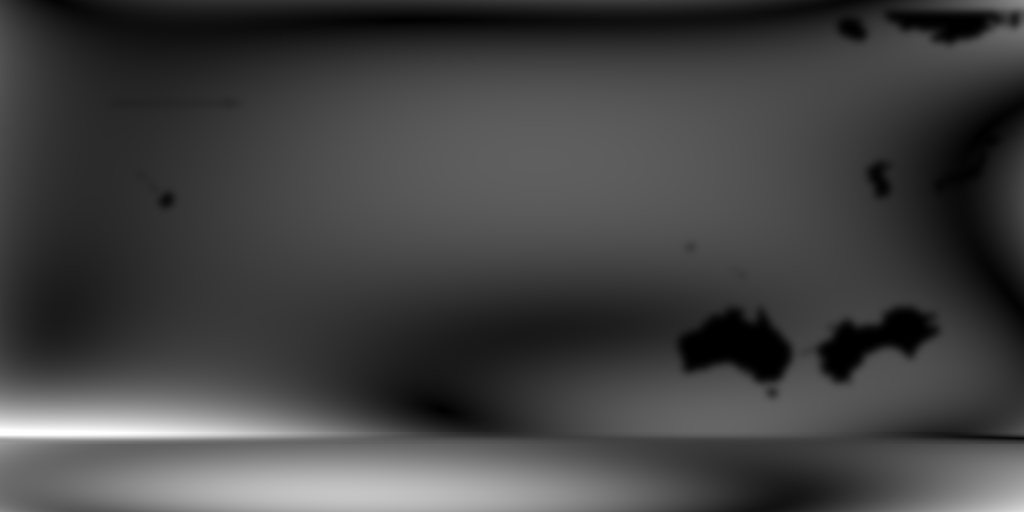
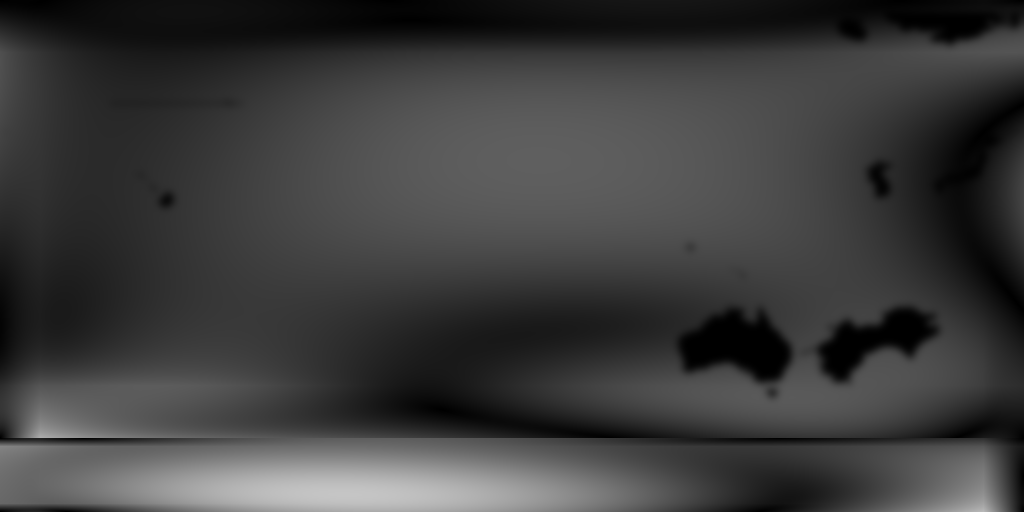
mapfix: pin boundaries (no edge crush) + isolate/re-paste protected regions
Two fixes for the remaining warp artefacts:
- _pin_boundaries: taper the displacement to zero at the fixed map boundaries
  (DY->0 at each band's top/bottom = poles + world/Antarctica seam; DX->0 at
  the date line). The poly no longer pulls edge rows from off-frame, so the
  boundary "crush" is gone -- squeezed provinces 36 -> 0.
- --apply now re-pastes protected provinces' EXACT source pixels after the warp
  (across all layers), so the protected/fixed regions keep their painted shape
  with no feather-band edge distortion.

Result: total disagreement 8.60%; 0 squeezed; tiny delta +18; all 15320 IDs
survive; PASS. Protected regions (Australia etc.) render crisp.

diff --git a/tools/mapfix/warp_map.py b/tools/mapfix/warp_map.py
@@ -357,12 +357,11 @@ def fit_poly_field_banded(ys, xs, dy, dx, conf, shape, bands, degree, ant_degree
     them. The world map (Miller) and the Antarctica map (equirect) are different
     projections stitched at the seam, so a single global poly averages two
     unrelated distortions across the seam. Fitting each band on its own corrects
-    each independently. The thin Antarctica band uses a lower degree. Seam rows
-    are lightly blended to avoid a hard step in the displacement."""
+    each independently. The thin Antarctica band uses a lower degree. Band
+    boundaries are pinned later by _pin_boundaries (DY->0 at the seam/poles)."""
     h, w = shape
     DY = np.zeros((h, w), np.float32)
     DX = np.zeros((h, w), np.float32)
-    seams = []
     for band in bands:
         name = band[0].lower()
         r0 = max(0, int(round(band[1] * h)))
@@ -373,15 +372,32 @@ def fit_poly_field_banded(ys, xs, dy, dx, conf, shape, bands, degree, ant_degree
         deg = ant_degree if name == "antarctica" else degree
         deg = max(1, min(deg, nrows - 1)) if nrows > 1 else 1
         DY[r0:r1], DX[r0:r1] = _fit_poly_rows(ys, xs, dy, dx, conf, w, r0, r1, deg)
-        if r0 > 0:
-            seams.append(r0)
-    # soften each seam over a few rows so the warp has no hard step there
-    for s in seams:
-        t = 6
-        a, b = max(0, s - t), min(h, s + t)
-        if b - a >= 3:
-            DY[a:b] = gaussian_filter(DY[a:b], (t / 2.0, 0))
-            DX[a:b] = gaussian_filter(DX[a:b], (t / 2.0, 0))
+    return DY, DX
+
+
+def _pin_boundaries(DY, DX, shape, bands):
+    """Taper the displacement to zero at the FIXED map boundaries so the warp
+    cannot crush content there:
+      - DY -> 0 at each band's top and bottom rows (the poles and the
+        world/Antarctica seam are fixed; without this the poly pulls edge rows
+        from off-frame and squashes them);
+      - DX -> 0 at the left/right edges (the date line).
+    Tapers over a small margin so the interior correction is untouched."""
+    h, w = shape
+    for band in (bands or []):
+        r0 = max(0, int(round(band[1] * h)))
+        r1 = min(h, int(round(band[2] * h)))
+        bh = r1 - r0
+        if bh < 4:
+            continue
+        mar = max(2, int(bh * 0.12))
+        loc = np.arange(bh)
+        tap = np.clip(np.minimum(loc, bh - 1 - loc) / mar, 0.0, 1.0).astype(np.float32)
+        DY[r0:r1] *= tap[:, None]
+    marx = max(2, int(w * 0.04))
+    xr = np.arange(w)
+    txp = np.clip(np.minimum(xr, w - 1 - xr) / marx, 0.0, 1.0).astype(np.float32)
+    DX *= txp[None, :]
     return DY, DX
 
 
@@ -439,6 +455,7 @@ def densify(ys, xs, dy, dx, conf, shape, smooth, gcps=None, protect=None,
         DY *= keep
         DX *= keep
 
+    DY, DX = _pin_boundaries(DY, DX, (h, w), bands)
     return DY, DX
 
 
@@ -653,6 +670,13 @@ def main():
     if protect is not None:
         Image.fromarray((protect * 255).astype(np.uint8)).save(
             os.path.join(OUT_DIR, "protect_mask.png"))
+    # province colours that are protected -> re-pasted EXACTLY after the warp
+    protected_encs = set()
+    if os.path.exists(args.protect_provinces):
+        for _n, encs, _t in resolve_protect_regions(args.protect_provinces):
+            protected_encs.update(encs)
+    protected_arr = (np.array(sorted(protected_encs), dtype=np.int64)
+                     if protected_encs else None)
 
     print("[2/4] estimating displacement field (block matching)")
     ys, xs, dy, dx, conf = estimate_field(src, ref, args.grid, args.win, args.search)
@@ -720,6 +744,7 @@ def main():
         print("\n[4/4] applying to full-resolution layers -> out/corrected/")
         cdir = os.path.join(OUT_DIR, "corrected")
         os.makedirs(cdir, exist_ok=True)
+        pmask_full = None              # protected pixel mask at provinces res
         for fname, order in LAYERS.items():
             path = os.path.join(MAP_DIR, fname)
             if not os.path.exists(path):
@@ -738,20 +763,32 @@ def main():
             if fname == "provinces.bmp" and arr.ndim == 3:
                 # province IDs are encoded as colours; restamp any squeezed out
                 out = out.copy()
-                out, lost, fixed = restamp_lost_provinces(out, arr, DYf, DXf)
-                kept = len(np.unique(_encode_rgb(out)))
                 src_n = len(np.unique(_encode_rgb(arr)))
-                note = (f"  provinces: {src_n} IDs, {lost} squeezed -> "
-                        f"{fixed} restamped, {kept}/{src_n} present")
+                out, lost, fixed = restamp_lost_provinces(out, arr, DYf, DXf)
+                note = f"  provinces: {src_n} IDs, {lost} squeezed -> {fixed} restamped"
                 if args.despeckle > 0:
                     out, nmerged, npx = despeckle_provinces(out, args.despeckle)
-                    after_n = len(np.unique(_encode_rgb(out)))
-                    note += (f"; despeckle merged {nmerged} stray fragments "
-                             f"({npx}px), {after_n}/{src_n} present")
-                    if after_n < kept:
-                        note += "  (!) despeckle dropped an ID -- inspect"
-                elif kept < src_n:
-                    note += "  (!) still missing -- inspect manually"
+                    note += f"; despeckle {nmerged} frags ({npx}px)"
+                # isolate & re-paste protected regions EXACTLY (no feather distortion)
+                if protected_arr is not None:
+                    pmask_full = np.isin(_encode_rgb(arr).astype(np.int64), protected_arr)
+                    out[pmask_full] = arr[pmask_full]
+                    # the exact re-paste could overwrite a province the warp had
+                    # nudged into this area; restamp once more to be safe
+                    out, lost2, fixed2 = restamp_lost_provinces(out, arr, DYf, DXf)
+                    note += f"; re-pasted {int(pmask_full.sum())}px protected"
+                kept = len(np.unique(_encode_rgb(out)))
+                note += f"; {kept}/{src_n} present"
+                if kept < src_n:
+                    note += "  (!) missing -- inspect manually"
+            elif protected_arr is not None and pmask_full is not None:
+                # re-paste protected pixels on the other layers too (same region)
+                if pmask_full.shape == (fh, fw):
+                    pm = pmask_full
+                else:
+                    pm = np.asarray(Image.fromarray(pmask_full.astype(np.uint8) * 255)
+                                    .resize((fw, fh), Image.NEAREST)) > 127
+                out[pm] = arr[pm]
 
             # Save preserving the exact HOI4 BMP format (see map-modding rules):
             #  - 8-bit indexed (terrain/rivers): KEEP the original colormap.

diff --git a/tools/mapfix/README.md b/tools/mapfix/README.md
@@ -9,7 +9,8 @@
   - 南極バンド：行 2192–2560（0.8562–1.0）↔ **正距円筒**、緯度 **−57°〜−90°**
 - **陸海の判定は `provinces.bmp` ＋ `definition.csv` の種別（land/sea/lake）が正解基準**（既定 `--landsea province`）。terrain/heightmap の塗りは海岸線を正確に表さないため使わない。
 - 変位場は2モデルを選べる（`--model`）。**既定は `poly`（低次多項式＝大局的な縦横比歪みだけを滑らかに補正、海岸線が波打たない）**。`field`（密ブロックマッチ）は局所追従が強いが波打ちやすい。
-- **poly は世界バンドと南極バンドを別々にフィット**（既定 `--per-band`。世界=`--poly-degree 5`、南極=`--ant-degree 3`）。両バンドは投影が異なるため、1枚の大域多項式だと継ぎ目をまたいで2つの無関係な歪みを平均してしまう。バンド独立化で南極も改善し、潰れる小プロヴィンスも減る（squeezed 56→36）。`--no-per-band` で旧大域。
+- **poly は世界バンドと南極バンドを別々にフィット**（既定 `--per-band`。世界=`--poly-degree 5`、南極=`--ant-degree 3`）。両バンドは投影が異なるため、1枚の大域多項式だと継ぎ目をまたいで2つの無関係な歪みを平均してしまう。`--no-per-band` で旧大域。
+- **境界テーパ**：各バンドの上下端（極・継ぎ目）で縦変位を、左右端（日付変更線）で横変位を 0 へ落とす。これでマップ端の「潰れ」が消え、フレーム外からの引き込みが無くなる（潰れて消える小プロヴィンス squeezed 36→**0**）。
   - 実測（10m参照・プロヴィンス基準・継ぎ目下から367.5px）：陸海食い違い **before 13.2% → poly(per-band) 8.7%**（保護領域除外の真の残差 world 7.1% / 南極 7.2%）。`field` は約3%まで下がるが見た目がぐにゃつくため既定は poly。**残差の大半は保護中の意図的歪み（豪州/日本/朝鮮/四国大陸）と、解像度由来の海岸線1pxフリンジ**であり、これ以上は warp では詰められない。
 - 全レイヤーを **同一の変位場でワープ**（プロヴィンス/terrain/riversは最近傍補間で色＝ID保持、heightmap/normalはバイリニア）。
 - この方式なら **province ID が変わらない**ので、`definition.csv` / states / history / supply などの既存データは壊れない（検証は `verify_apply.py`）。
@@ -105,6 +106,7 @@ canada_isthmus, sr+sea, 258
 - ID トークンは **範囲 `A-B`（両端含む）** も可（例：四国の `1009-1087`）。**同名の行を複数**書ける（和集合）。
 - 各領域は既定で**陸/湖プロヴィンスだけ**を保護（海は自動除外）。`kind` に **`+sea`**（または `+all`）を付けると**海も含める**＝水路・海峡など水域フィーチャーを固定したい時に使う（例：カナダ大地峡=水路）。
 - これらのプロヴィンスの **provinces.bmp 上の実ピクセル**がマスクになる＝**描かれた形そのまま**を保護（矩形のはみ出し・取りこぼしがない）。
+- **隔離再貼付**：`--apply` 時、warp後に保護プロヴィンスの**元ピクセルをそのまま貼り直す**ので、フェザー帯による縁の歪みが出ない（固定領域は完全に元の形）。
 - 配置確認は `python3 show_protect.py`（色分け＋重心）。warp 実行時に `out/protect_mask.png`（白=保護）も出力。
 
 既定収録（作者「仕様」の意図的デザイン。`protect.csv` の旧矩形 `australia`/`japan_korea_shikoku` は本ファイルが置き換えたためコメントアウト済み）：
